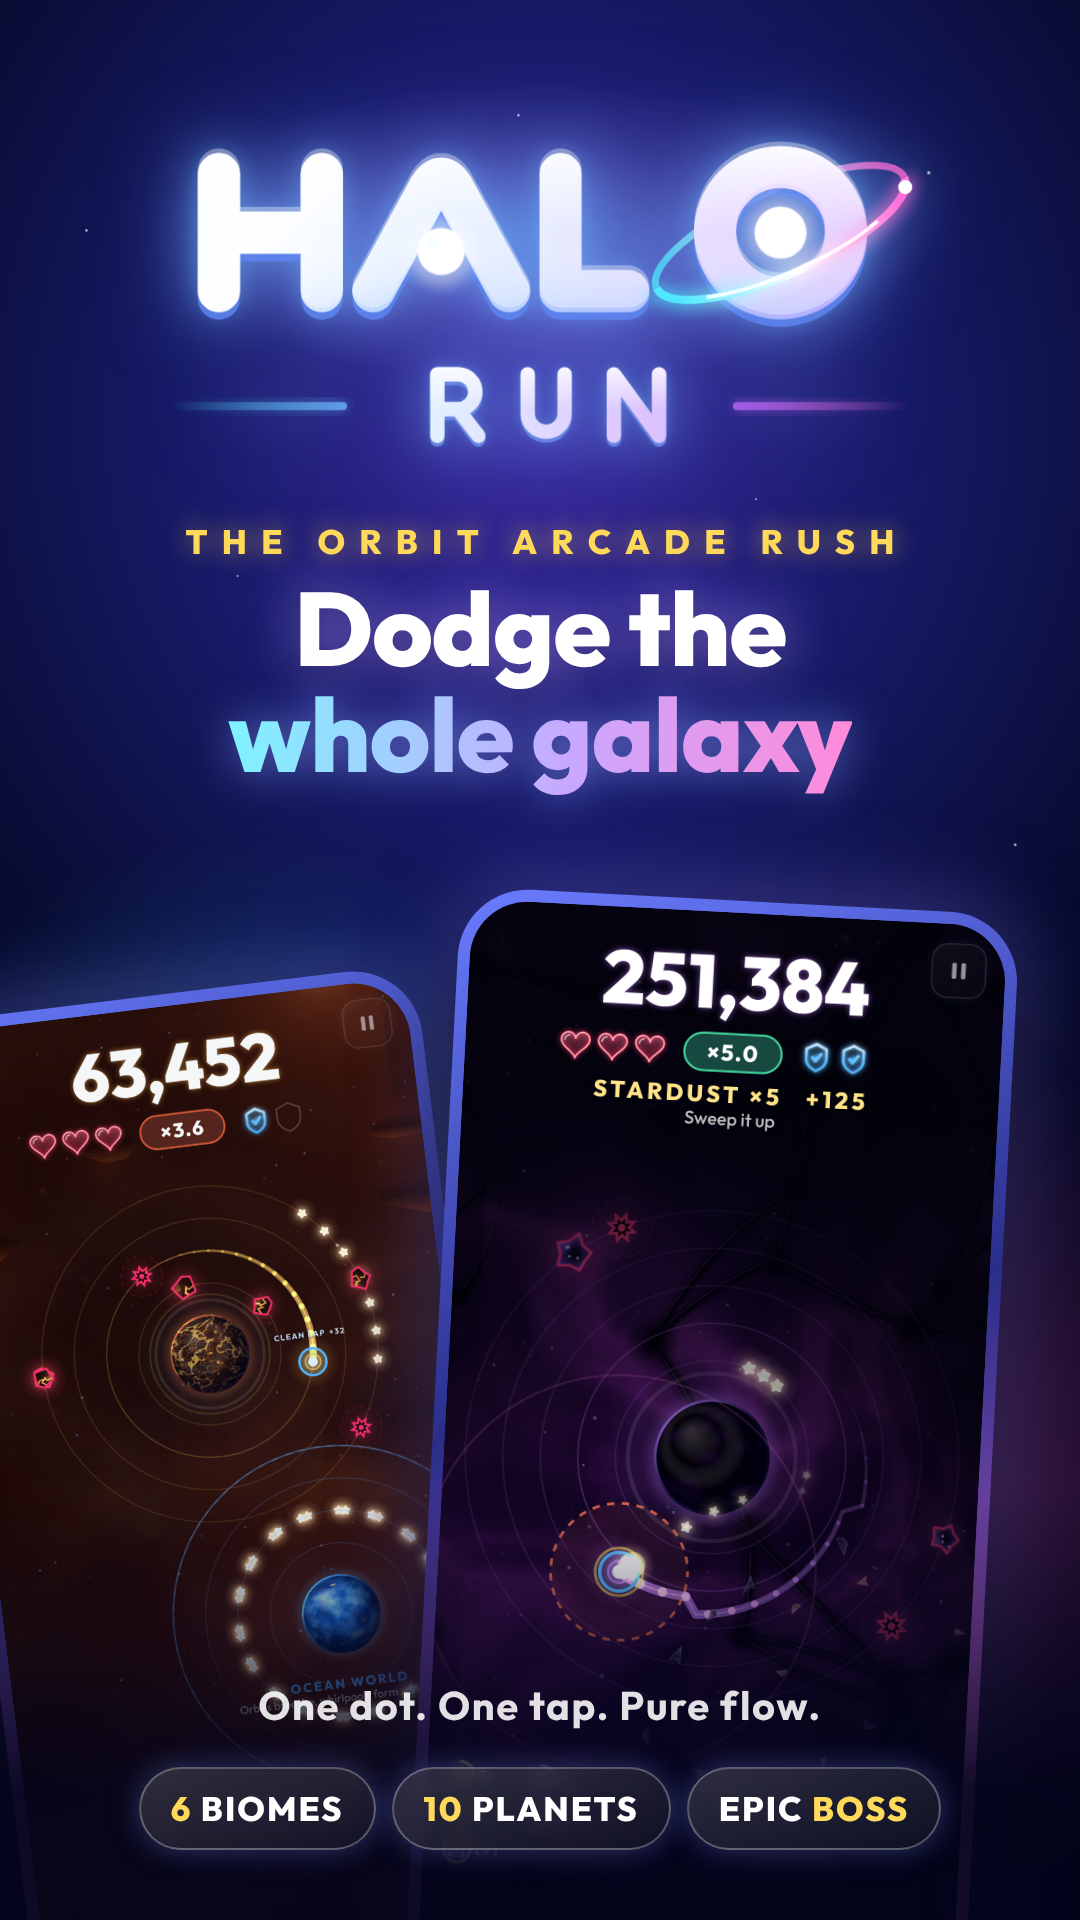
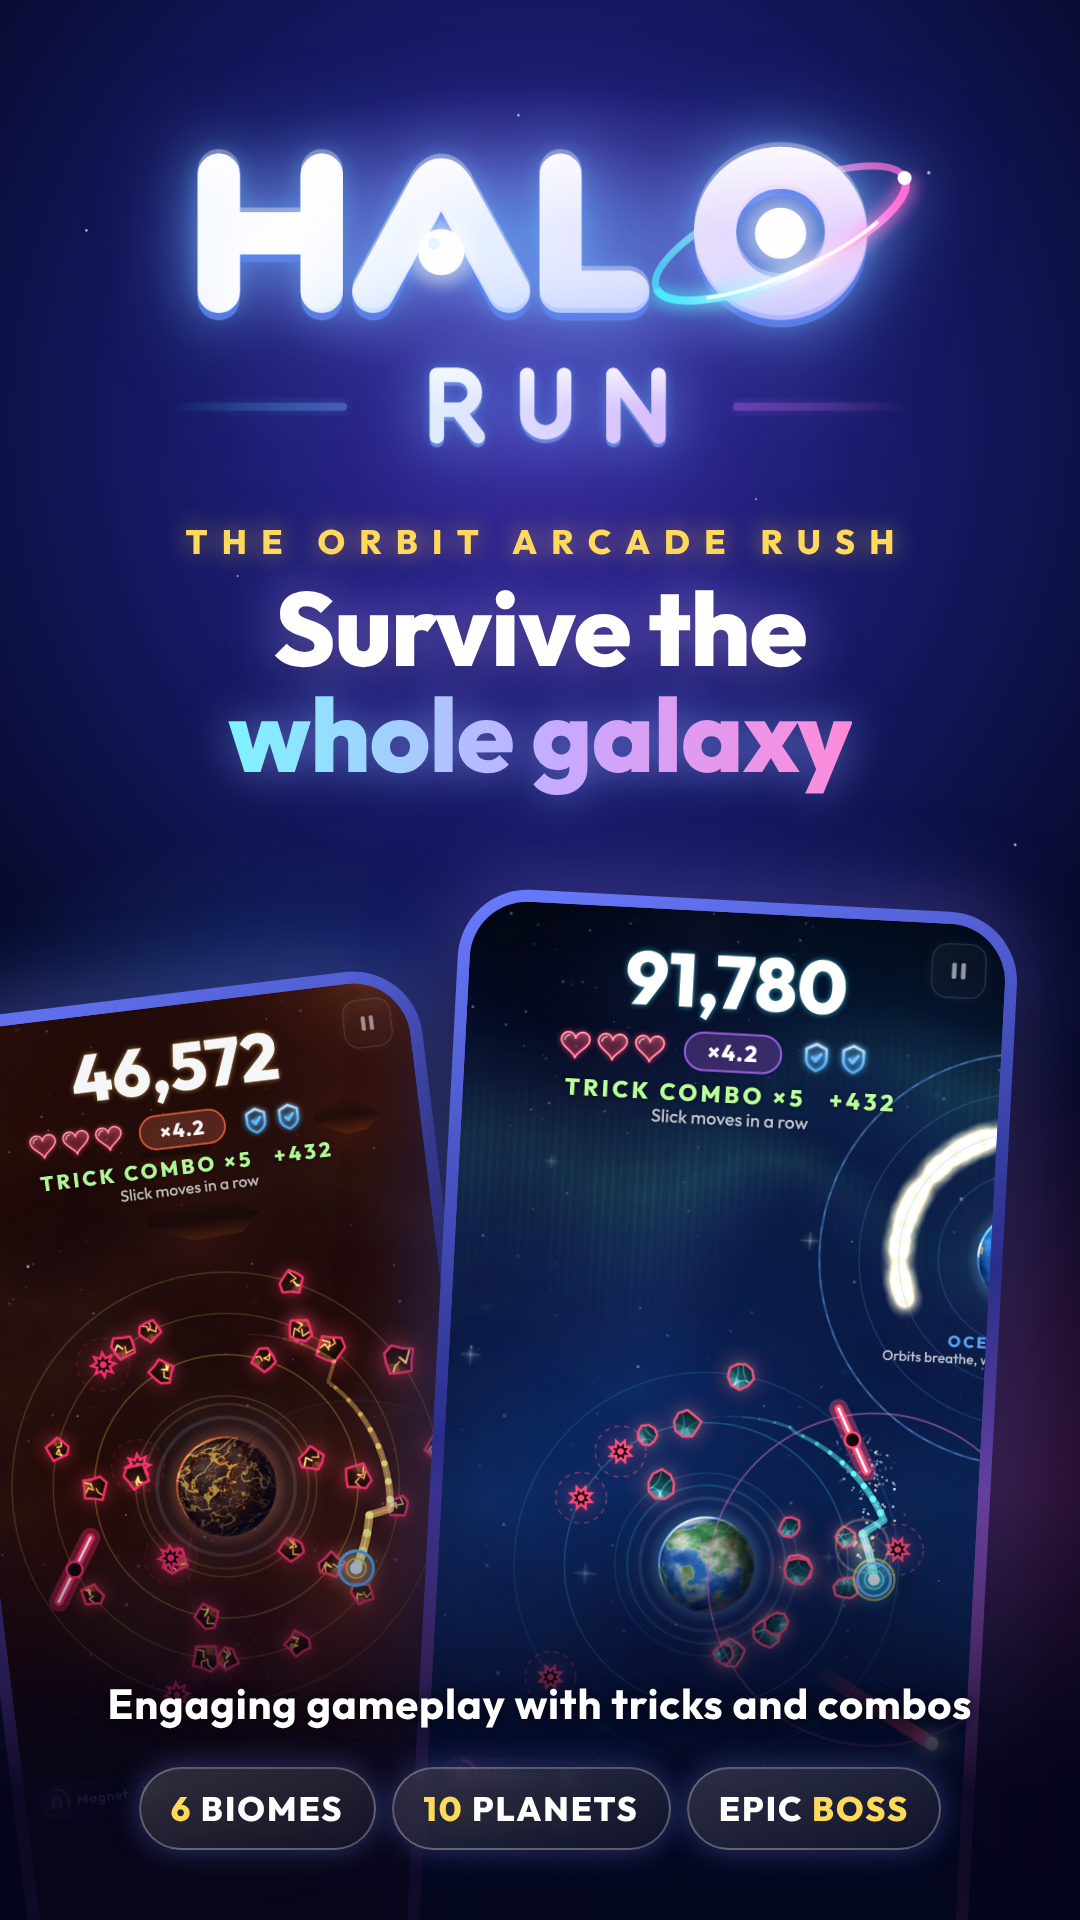
Play Store hero: Survive the whole galaxy, Aurora with the Ocean world, tricks and combos
Claude-Session: https://claude.ai/code/session_016cK1Un3U2vpZFvp4VDKec1

diff --git a/www/js/game.js b/www/js/game.js
@@ -4537,7 +4537,7 @@ OD.game = (() => {
     resize,
     _profLast: () => Object.fromEntries(Object.entries(profAcc).map(([k, v]) => [k, +(v.last || 0).toFixed(1)])),
     _prof: () => Object.fromEntries(Object.entries(profAcc).map(([k, v]) => [k, +(v.ms / Math.max(1, v.n)).toFixed(2)])),
-    _dbg: { drawPowerIcon, spawnAll: () => ({ spawnRocks, spawnComets, spawnMines, spawnSpinner, spawnBeam, spawnHole, spawnStrike }), get my() { return [my, myWant, cy, H]; }, spawnVis, endRun, banner, enterBiome, pickBiome, gapAt, U: () => u, flip, keyHop, fireShock, fireDraw, hpos, R: () => R, OUTN: () => OUT, lowO: () => lowO(), spawnPower, spawnSpear, spawnDevil, radial: radialDir, playerXY, startSettle, get world() { return world; }, get S() { return S; }, set S(v) { S = v; }, update, die: () => die(null, 'debug'), jump: () => doJump(false, true), target: () => jumpTarget(), cands: () => jumpCandidates(), setTrait: t => { setTrait(t); S.era.mix = 1; }, introduce, setOrbits, trick, destroy, absorb, hz: () => S.hz, spawn: { shoal: spawnShoal, devil: spawnDevil, blossom: spawnBloom, hail: spawnHail, serpent: spawnSerpent, rift: spawnRift, smallhole: spawnHole, ribbon: spawnRibbon, tether: spawnTether, cinder: spawnCinder, spear: spawnSpear, pylon: spawnPylon, shade: spawnShade, singularity: spawnSingularity, strike: spawnStrike, cloud: spawnCloud, rocks: spawnRocks, comets: spawnComets, mines: spawnMines, ring: spawnRing, beam: spawnBeam, hole: spawnHole, boss: spawnBoss, dust: spawnDust, power: spawnPower, vis: spawnVis, shower: evShower, bloom: evBloom, flare: evFlare, hole: evHole, nova: evNova, event: spawnEvent, overdrive: startOverdrive } },
+    _dbg: { trick, feat, drawPowerIcon, spawnAll: () => ({ spawnRocks, spawnComets, spawnMines, spawnSpinner, spawnBeam, spawnHole, spawnStrike }), get my() { return [my, myWant, cy, H]; }, spawnVis, endRun, banner, enterBiome, pickBiome, gapAt, U: () => u, flip, keyHop, fireShock, fireDraw, hpos, R: () => R, OUTN: () => OUT, lowO: () => lowO(), spawnPower, spawnSpear, spawnDevil, radial: radialDir, playerXY, startSettle, get world() { return world; }, get S() { return S; }, set S(v) { S = v; }, update, die: () => die(null, 'debug'), jump: () => doJump(false, true), target: () => jumpTarget(), cands: () => jumpCandidates(), setTrait: t => { setTrait(t); S.era.mix = 1; }, introduce, setOrbits, trick, destroy, absorb, hz: () => S.hz, spawn: { shoal: spawnShoal, devil: spawnDevil, blossom: spawnBloom, hail: spawnHail, serpent: spawnSerpent, rift: spawnRift, smallhole: spawnHole, ribbon: spawnRibbon, tether: spawnTether, cinder: spawnCinder, spear: spawnSpear, pylon: spawnPylon, shade: spawnShade, singularity: spawnSingularity, strike: spawnStrike, cloud: spawnCloud, rocks: spawnRocks, comets: spawnComets, mines: spawnMines, ring: spawnRing, beam: spawnBeam, hole: spawnHole, boss: spawnBoss, dust: spawnDust, power: spawnPower, vis: spawnVis, shower: evShower, bloom: evBloom, flare: evFlare, hole: evHole, nova: evNova, event: spawnEvent, overdrive: startOverdrive } },
     mode: () => mode,
   };
   return api;
